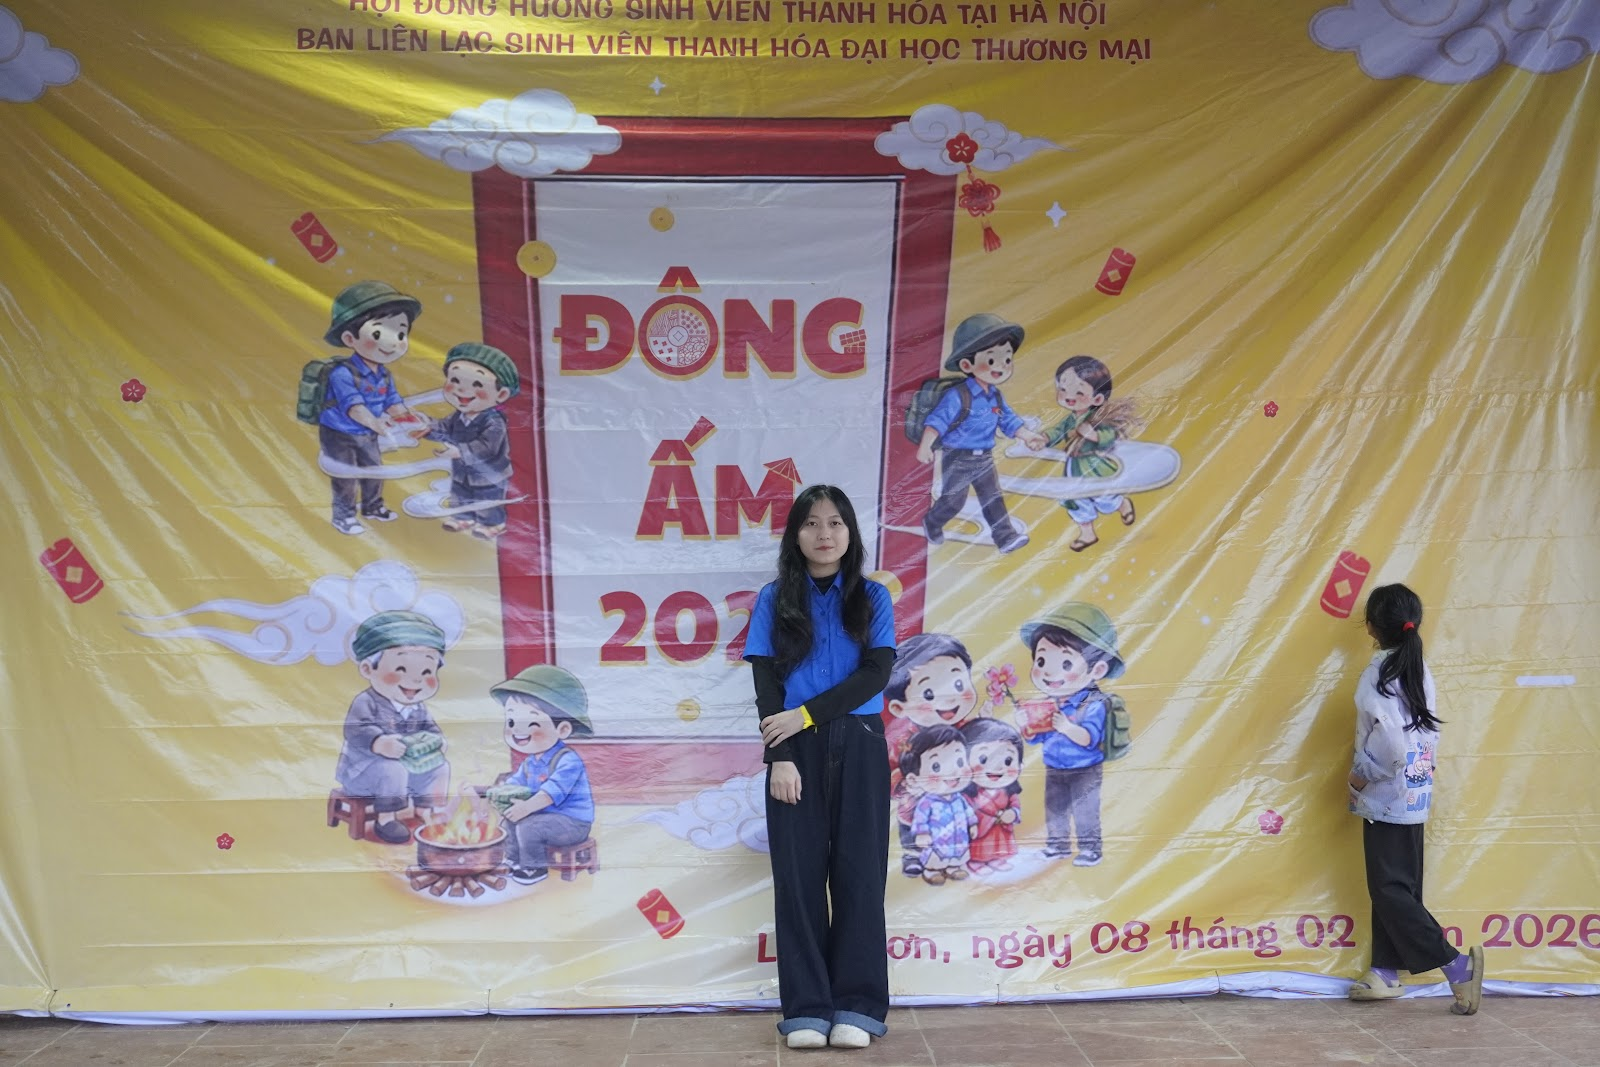
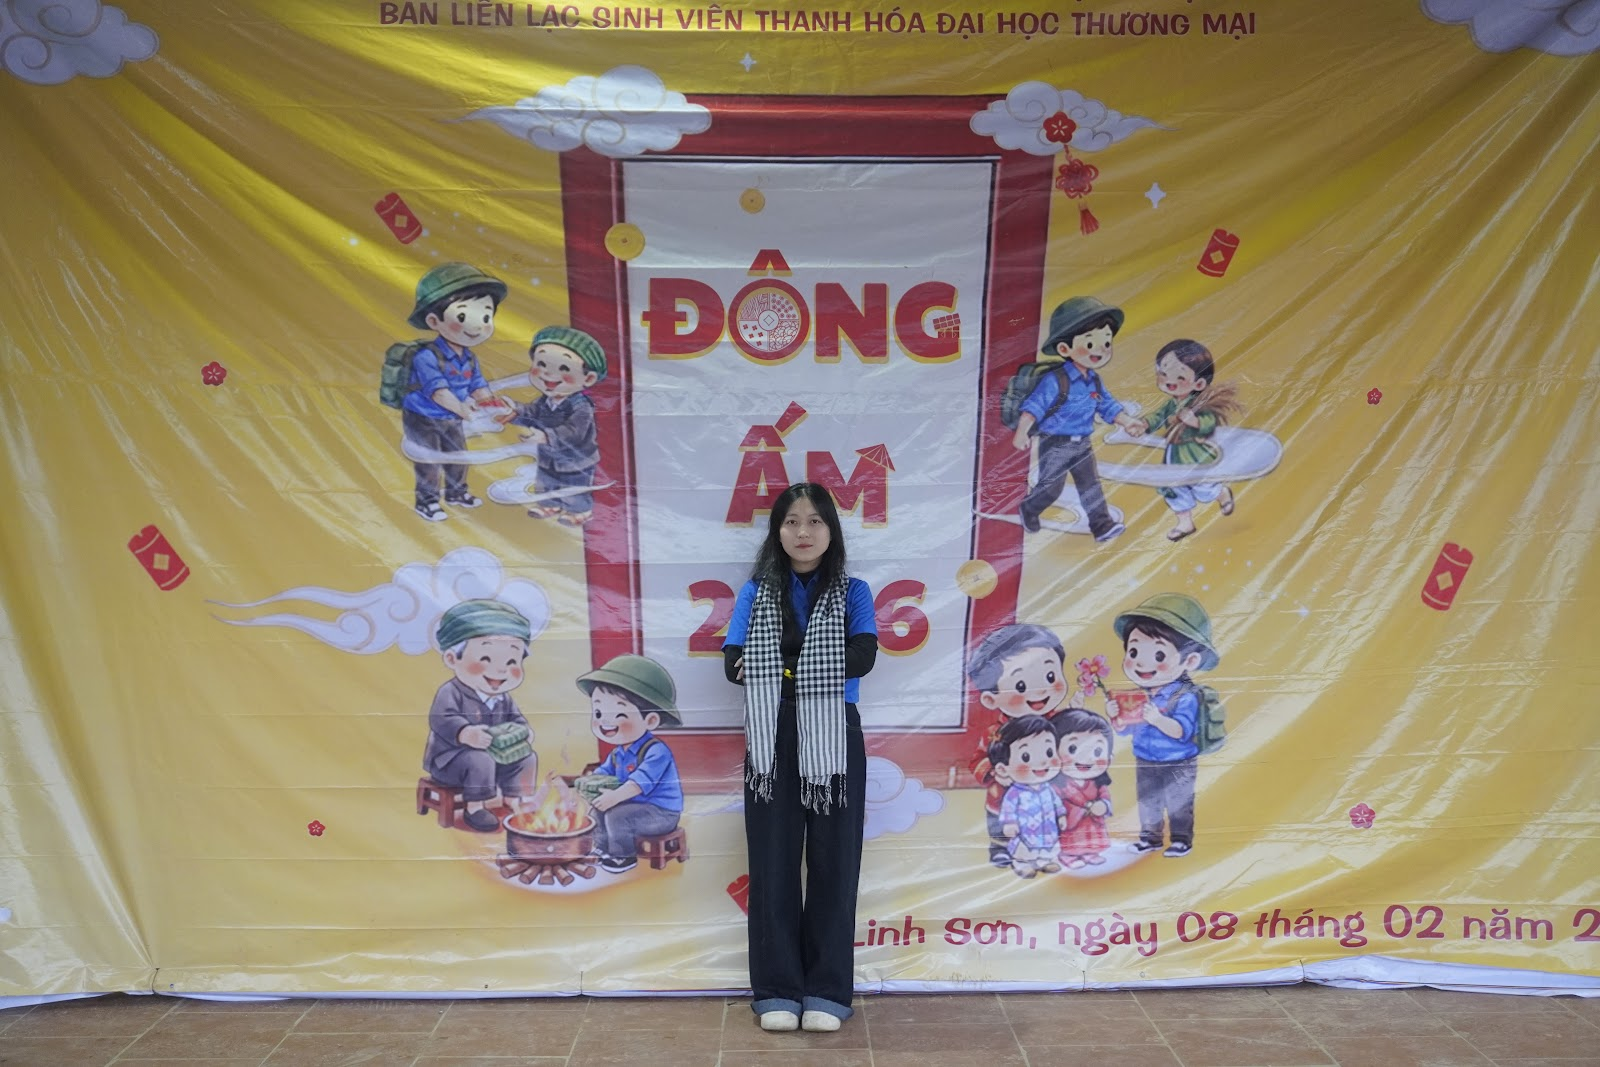
fix(gallery): enforce massive crowd photos and remove all single-person cover photos

diff --git a/src/data/content.ts b/src/data/content.ts
@@ -851,7 +851,7 @@ export const DANCES: Dance[] = [
   },
 ];
 
-const IMG = {
+export const IMG = {
   volunteers: "https://images.pexels.com/photos/13418669/pexels-photo-13418669.jpeg?auto=compress&cs=tinysrgb&dpr=2&h=650&w=940",
   maskTeam: "https://images.pexels.com/photos/8543385/pexels-photo-8543385.jpeg?auto=compress&cs=tinysrgb&dpr=2&h=650&w=940",
   support: "https://images.pexels.com/photos/7475127/pexels-photo-7475127.jpeg?auto=compress&cs=tinysrgb&dpr=2&h=650&w=940",
@@ -919,10 +919,8 @@ export const PROGRAMS: Program[] = [
     cover: "/images/programs/mua-he-xanh-2026/mhx-back-1.jpg",
     gallery: [
       "/images/programs/mua-he-xanh-2026/mhx-back-1.jpg",
-      "/images/programs/mua-he-xanh-2026/mhx-back-2.jpg",
-      "/images/programs/mua-he-xanh-2026/mhx-cttn-1.jpg",
       "/images/programs/mua-he-xanh-2026/mhx-van-nghe-1.jpg",
-      "/images/programs/mua-he-xanh-2026/mhx-meme-1.jpg",
+      "/images/programs/mua-he-xanh-2026/mhx-cttn-1.jpg",
     ],
     driveLink: "https://drive.google.com/drive/folders/1kZ8TGJfj5N7PO5NVZqQpA2nt30SHuZ0U?usp=drive_link",
     schedule: [
@@ -951,7 +949,9 @@ export const PROGRAMS: Program[] = [
     cover: "/images/programs/dong-am-2026/dong-am-back-1.jpg",
     gallery: [
       "/images/programs/dong-am-2026/dong-am-back-1.jpg",
+      "/images/programs/dong-am-2026/dong-am-san-truong-1.jpg",
       "/images/programs/dong-am-2026/dong-am-phien-cho-1.jpg",
+      "/images/programs/dong-am-2026/dong-am-back-2.jpg",
       "/images/programs/dong-am-2026/dong-am-lua-trai-1.jpg",
     ],
     driveLink: "https://drive.google.com/drive/folders/1KgN-5lNuMjMC9nlyQkn-G63nUCnsqalp?usp=drive_link",
@@ -980,7 +980,7 @@ export const PROGRAMS: Program[] = [
     cover: "/images/programs/sinh-nhat-2026/sinh-nhat-back-1.jpg",
     gallery: [
       "/images/programs/sinh-nhat-2026/sinh-nhat-back-1.jpg",
-      "/images/programs/sinh-nhat-2026/sinh-nhat-gala-1.jpg",
+      "/images/programs/sinh-nhat-2026/sinh-nhat-back-2.jpg",
       "/images/programs/sinh-nhat-2026/sinh-nhat-gala-2.jpg",
     ],
     driveLink: "https://drive.google.com/drive/folders/1bpUGAPI8hk7uHhApBGP0hVrrXUB0ZX6x?usp=drive_link",
@@ -1006,8 +1006,12 @@ export const PROGRAMS: Program[] = [
     status: "Đã kết thúc",
     excerpt:
       "Chương trình lớn nhất quy tụ 20 Ban liên lạc trực thuộc Hội đồng hương Thanh Hóa tại Hà Nội. BLLSV TMU tự hào đạt kỷ lục 4 năm liên tiếp giữ cúp vô địch toàn đoàn!",
-    cover: IMG.dance,
-    gallery: [IMG.dance2, IMG.dance3, IMG.community, IMG.friends],
+    cover: "/images/programs/sinh-nhat-2026/sinh-nhat-back-1.jpg",
+    gallery: [
+      "/images/programs/sinh-nhat-2026/sinh-nhat-back-1.jpg",
+      "/images/programs/mua-he-xanh-2026/mhx-van-nghe-1.jpg",
+      "/images/programs/dong-am-2026/dong-am-lua-trai-1.jpg",
+    ],
     schedule: [
       { time: "08:00", title: "Hội quân 20 đơn vị", note: "Các đội quy tụ, giăng cờ sắc áo chuẩn bị thi đấu." },
       { time: "13:30", title: "Phần thi nhảy truyền thống & nghệ thuật", note: "TMU bùng nổ với các màn trình diễn xuất sắc được chuẩn bị kỹ lưỡng." },
@@ -1030,8 +1034,12 @@ export const PROGRAMS: Program[] = [
     status: "Sắp diễn ra",
     excerpt:
       "Chương trình rèn luyện kỹ năng sinh tồn, làm việc nhóm, kỷ luật tình nguyện và truyền lửa nhiệt huyết cho thế hệ tình nguyện viên mới trước thềm Mùa Hè Xanh.",
-    cover: IMG.walk,
-    gallery: [IMG.volunteers, IMG.support, IMG.park],
+    cover: "/images/programs/dong-am-2026/dong-am-back-1.jpg",
+    gallery: [
+      "/images/programs/dong-am-2026/dong-am-back-1.jpg",
+      "/images/programs/mua-he-xanh-2026/mhx-back-1.jpg",
+      "/images/programs/dong-am-2026/dong-am-back-2.jpg",
+    ],
     schedule: [
       { time: "06:00", title: "Hành quân về địa điểm dã ngoại", note: "Các mùa tập huấn tại Ba Vì, Sóc Sơn, Ứng Hòa." },
       { time: "09:00", title: "Thử thách kỹ năng dã ngoại & teamwork", note: "Dựng lều, nấu ăn dã chiến, sơ cứu thương tích." },
@@ -1054,8 +1062,12 @@ export const PROGRAMS: Program[] = [
     status: "Sắp diễn ra",
     excerpt:
       "Buổi đầu tiên những người con sông Mã bước vào TMU được gọi bằng hai tiếng thân thương: 'người nhà'. Đón tân sinh viên, hướng dẫn học tập và truyền lửa truyền thống 36.",
-    cover: IMG.campus,
-    gallery: [IMG.dance, IMG.friends, IMG.park],
+    cover: "/images/programs/sinh-nhat-2026/sinh-nhat-back-2.jpg",
+    gallery: [
+      "/images/programs/sinh-nhat-2026/sinh-nhat-back-2.jpg",
+      "/images/programs/sinh-nhat-2026/sinh-nhat-back-1.jpg",
+      "/images/programs/dong-am-2026/dong-am-san-truong-1.jpg",
+    ],
     schedule: [
       { time: "08:00", title: "Đón tân sinh viên & tặng quà quê", note: "Phát tài liệu hướng dẫn học tập, chia sẻ kinh nghiệm trọ." },
       { time: "14:00", title: "Dạy nhảy 4 bài truyền thống", note: "Ban Văn hóa – Sự kiện trực tiếp hướng dẫn từng bước." },
@@ -1080,18 +1092,18 @@ export type Memory = {
 };
 
 export const MEMORIES: Memory[] = [
-  { id: "m1", src: "/images/programs/mua-he-xanh-2026/mhx-back-1.jpg", title: "Mùa Hè Xanh 2026", caption: "Đội hình toàn quân kiên cường trước thềm chiến dịch tình nguyện hè.", tag: "Mùa Hè Xanh", category: "mua-he-xanh", height: "h-64 md:h-72" },
-  { id: "m2", src: "/images/programs/dong-am-2026/dong-am-back-1.jpg", title: "Đông Ấm 2026", caption: "Đội hình toàn quân mang hơi ấm và nụ cười tới bà con vùng cao.", tag: "Đông Ấm", category: "dong-am", height: "h-72 md:h-96" },
-  { id: "m3", src: "/images/programs/sinh-nhat-2026/sinh-nhat-back-1.jpg", title: "Sinh nhật 18 tuổi", caption: "Đại lễ 18 năm thành lập quy tụ đông đủ các thế hệ K44 - K60.", tag: "Sinh nhật 18", category: "sinh-nhat", height: "h-56 md:h-64" },
-  { id: "m4", src: "/images/programs/dong-am-2026/dong-am-phien-cho-1.jpg", title: "Phiên chợ 0 đồng", caption: "Đông đảo bà con và các em nhỏ vùng cao quây quần nhận quà tình nghĩa.", tag: "Đông Ấm", category: "dong-am", height: "h-64 md:h-80" },
-  { id: "m5", src: "/images/programs/sinh-nhat-2026/sinh-nhat-gala-2.jpg", title: "Cắt bánh Sinh nhật 18", caption: "Cùng nhau thổi nến chúc mừng mái nhà chung bước sang tuổi 18 rực rỡ.", tag: "Sinh nhật 18", category: "sinh-nhat", height: "h-60 md:h-72" },
-  { id: "m6", src: "/images/programs/mua-he-xanh-2026/mhx-cttn-1.jpg", title: "Công trình thanh niên", caption: "Đổ bê tông đường giao thông và làm đẹp diện mạo bản làng quê hương.", tag: "Mùa Hè Xanh", category: "mua-he-xanh", height: "h-64 md:h-80" },
-  { id: "m7", src: "/images/programs/sinh-nhat-2026/sinh-nhat-gala-1.jpg", title: "Hội trường Gala 18", caption: "Sân khấu rực sáng với tinh thần tuổi trẻ Thương Mại - Xứ Thanh.", tag: "Sinh nhật 18", category: "sinh-nhat", height: "h-56 md:h-72" },
-  { id: "m8", src: "/images/programs/dong-am-2026/dong-am-lua-trai-1.jpg", title: "Lửa trại Đông Ấm", caption: "Vòng tròn gắn kết thắp sáng màn đêm lạnh giá giữa núi rừng miền Tây.", tag: "Đông Ấm", category: "dong-am", height: "h-72 md:h-64" },
-  { id: "m9", src: "/images/programs/mua-he-xanh-2026/mhx-van-nghe-1.jpg", title: "Đêm văn nghệ bản làng", caption: "Tiếng hát, điệu múa trao gửi tình cảm yêu thương tới đồng bào xứ Thanh.", tag: "Mùa Hè Xanh", category: "mua-he-xanh", height: "h-60 md:h-72" },
-  { id: "m10", src: "/images/programs/mua-he-xanh-2026/mhx-meme-1.jpg", title: "Nụ cười chiến sĩ 36", caption: "Những khoảnh khắc hồn nhiên, giản dị làm nên thanh xuân rực rỡ.", tag: "Mùa Hè Xanh", category: "mua-he-xanh", height: "h-56 md:h-64" },
-  { id: "m11", src: IMG.dance, title: "Âm Vang Xứ Thanh", caption: "Khoảnh khắc vinh quang vô địch 4 năm liên tiếp của nhà chung.", tag: "Vô địch", category: "am-vang", height: "h-64 md:h-80" },
-  { id: "m12", src: IMG.community, title: "Vòng tròn Tinh thần 36", caption: "Đứng thành vòng tròn, tay trái đưa về tâm hô vang khẩu hiệu.", tag: "Nghi thức", category: "chung", height: "h-64 md:h-72" },
+  { id: "m1", src: "/images/programs/sinh-nhat-2026/sinh-nhat-back-1.jpg", title: "Đại Lễ Sinh Nhật 18", caption: "Khoảnh khắc lịch sử quy tụ đông đảo các thế hệ cựu thành viên và sinh viên K44 - K60.", tag: "Sinh nhật 18", category: "sinh-nhat", height: "h-72 md:h-96" },
+  { id: "m2", src: "/images/programs/dong-am-2026/dong-am-back-1.jpg", title: "Đông Ấm 2026", caption: "Đội hình toàn quân đông đủ mang hơi ấm và tình thương về với đồng bào vùng cao.", tag: "Đông Ấm", category: "dong-am", height: "h-64 md:h-80" },
+  { id: "m3", src: "/images/programs/mua-he-xanh-2026/mhx-back-1.jpg", title: "Mùa Hè Xanh 2026", caption: "Đội hình toàn quân kiên cường trước thềm chiến dịch tình nguyện hè.", tag: "Mùa Hè Xanh", category: "mua-he-xanh", height: "h-64 md:h-72" },
+  { id: "m4", src: "/images/programs/dong-am-2026/dong-am-san-truong-1.jpg", title: "Sân trường rộn rã", caption: "Hàng trăm em học sinh vùng cao tập trung kín sân trường trong ngày hội thiện nguyện.", tag: "Đông Ấm", category: "dong-am", height: "h-72 md:h-88" },
+  { id: "m5", src: "/images/programs/dong-am-2026/dong-am-phien-cho-1.jpg", title: "Phiên chợ 0 đồng", caption: "Đông đảo bà con và các em nhỏ vùng cao quây quần nhận quà tình nghĩa.", tag: "Đông Ấm", category: "dong-am", height: "h-64 md:h-80" },
+  { id: "m6", src: "/images/programs/sinh-nhat-2026/sinh-nhat-back-2.jpg", title: "Đại gia đình 36TMU", caption: "Các thế hệ anh chị BCH và TNV đứng kín phông nền kỷ niệm 18 năm giữ lửa.", tag: "Sinh nhật 18", category: "sinh-nhat", height: "h-64 md:h-80" },
+  { id: "m7", src: "/images/programs/mua-he-xanh-2026/mhx-van-nghe-1.jpg", title: "Đêm văn nghệ bản làng", caption: "Toàn thể bà con và thanh thiếu nhi bản làng quây quần theo dõi văn nghệ.", tag: "Mùa Hè Xanh", category: "mua-he-xanh", height: "h-56 md:h-72" },
+  { id: "m8", src: "/images/programs/dong-am-2026/dong-am-lua-trai-1.jpg", title: "Đêm hội lửa trại", caption: "Vòng tròn đoàn kết đông đảo thắp sáng màn đêm ấm áp tình quân dân.", tag: "Đông Ấm", category: "dong-am", height: "h-72 md:h-64" },
+  { id: "m9", src: "/images/programs/sinh-nhat-2026/sinh-nhat-gala-2.jpg", title: "Cắt bánh Sinh nhật 18", caption: "Toàn thể thành viên cùng nhau thổi nến chúc mừng sinh nhật nhà chung.", tag: "Sinh nhật 18", category: "sinh-nhat", height: "h-60 md:h-72" },
+  { id: "m10", src: "/images/programs/dong-am-2026/dong-am-back-2.jpg", title: "Đội quân áo xanh", caption: "Đại gia đình tình nguyện viên đoàn kết một lòng vì màu cờ sắc áo.", tag: "Đông Ấm", category: "dong-am", height: "h-64 md:h-80" },
+  { id: "m11", src: "/images/programs/mua-he-xanh-2026/mhx-cttn-1.jpg", title: "Công trình thanh niên", caption: "Đội ngũ chiến sĩ chung tay đổ đường bê tông cho bà con bản nghèo.", tag: "Mùa Hè Xanh", category: "mua-he-xanh", height: "h-60 md:h-72" },
+  { id: "m12", src: "/images/programs/sinh-nhat-2026/sinh-nhat-gala-1.jpg", title: "Hội trường Gala 18", caption: "Sân khấu đại lễ rực sáng với sự hiện diện của hàng trăm người con xứ Thanh.", tag: "Sinh nhật 18", category: "sinh-nhat", height: "h-64 md:h-80" },
 ];
 
 export type Confession = {

diff --git a/scripts/download_crowd_photos.py b/scripts/download_crowd_photos.py
@@ -1,0 +1,49 @@
+import os
+import urllib.request
+import time
+
+CROWD_PHOTOS = {
+    "dong-am-2026": [
+        ("dong-am-back-1.jpg", "1lBaYGtR9vqfCWb4Y8R7YuHkPmlGxxKON"), # _DSC0258.JPG - Massive squad backdrop
+        ("dong-am-back-2.jpg", "15zqYZuOPraNqW5jIeBToRe96YiEv1445"), # _DSC0264.JPG - Full volunteer team
+        ("dong-am-phien-cho-1.jpg", "1W79UT12ZAIHQZTp_QLesR1GKNiI6AYfs"), # IMG_0714.JPG - Packed zero-dong market crowd
+        ("dong-am-san-truong-1.jpg", "1NGuIMlZzziWG0IioXNmC74ILl0qj3TrU"), # _DSC0013.JPG - Hundreds of school students
+    ],
+    "sinh-nhat-2026": [
+        ("sinh-nhat-back-1.jpg", "1GgUSawNKjZ50H0kyBvtqV-G9q4EgY5ua"), # DSC05386.JPG - Massive stage crowd at 18th anniversary
+        ("sinh-nhat-back-2.jpg", "1cBBUqrbeMtaIZHu6_dxQ0B_yLD0ED7b7"), # DSC04717.JPG - Full alumni and member lineup
+    ]
+}
+
+BASE_DIR = os.path.join(os.path.dirname(__file__), "..", "public", "images", "programs")
+headers = {
+    'User-Agent': 'Mozilla/5.0 (Windows NT 10.0; Win64; x64) AppleWebKit/537.36 (KHTML, like Gecko) Chrome/120.0.0.0 Safari/537.36'
+}
+
+for folder, items in CROWD_PHOTOS.items():
+    folder_path = os.path.join(BASE_DIR, folder)
+    os.makedirs(folder_path, exist_ok=True)
+    for fname, fid in items:
+        file_path = os.path.join(folder_path, fname)
+        url = f"https://lh3.googleusercontent.com/d/{fid}=w1600"
+        print(f"Downloading crowd photo {fname} ({fid})...")
+        try:
+            req = urllib.request.Request(url, headers=headers)
+            with urllib.request.urlopen(req) as resp, open(file_path, "wb") as f:
+                f.write(resp.read())
+            size_kb = os.path.getsize(file_path) / 1024
+            print(f"  -> Saved {fname} ({size_kb:.1f} KB)")
+        except Exception as e:
+            print(f"  -> Error downloading {fname}: {e}")
+        time.sleep(1)
+
+# Remove any single-person / meme photos if present
+bad_files = [
+    os.path.join(BASE_DIR, "mua-he-xanh-2026", "mhx-meme-1.jpg"),
+]
+for bf in bad_files:
+    if os.path.exists(bf):
+        os.remove(bf)
+        print(f"Removed single-person/meme photo: {bf}")
+
+print("Crowd photos download finished successfully!")
